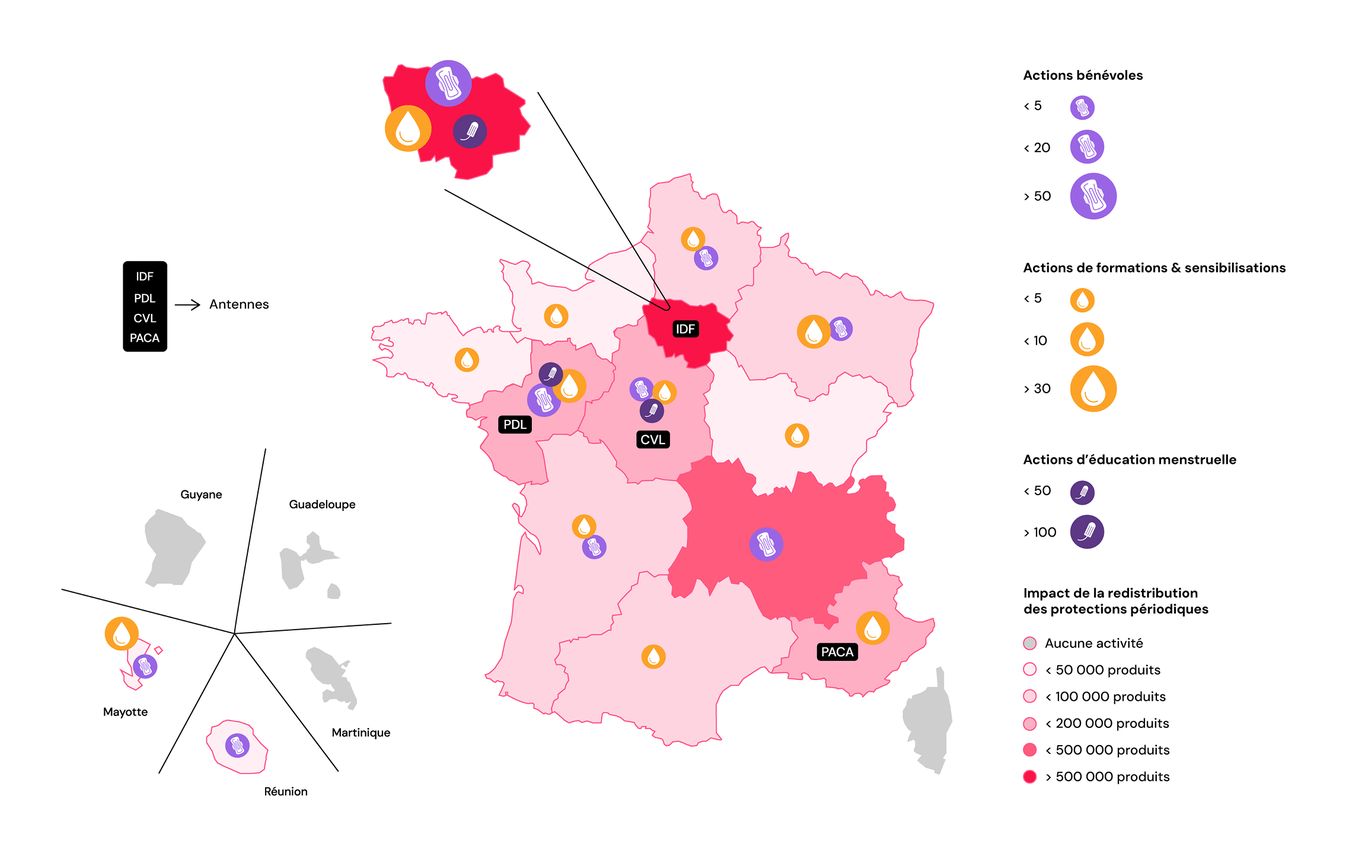
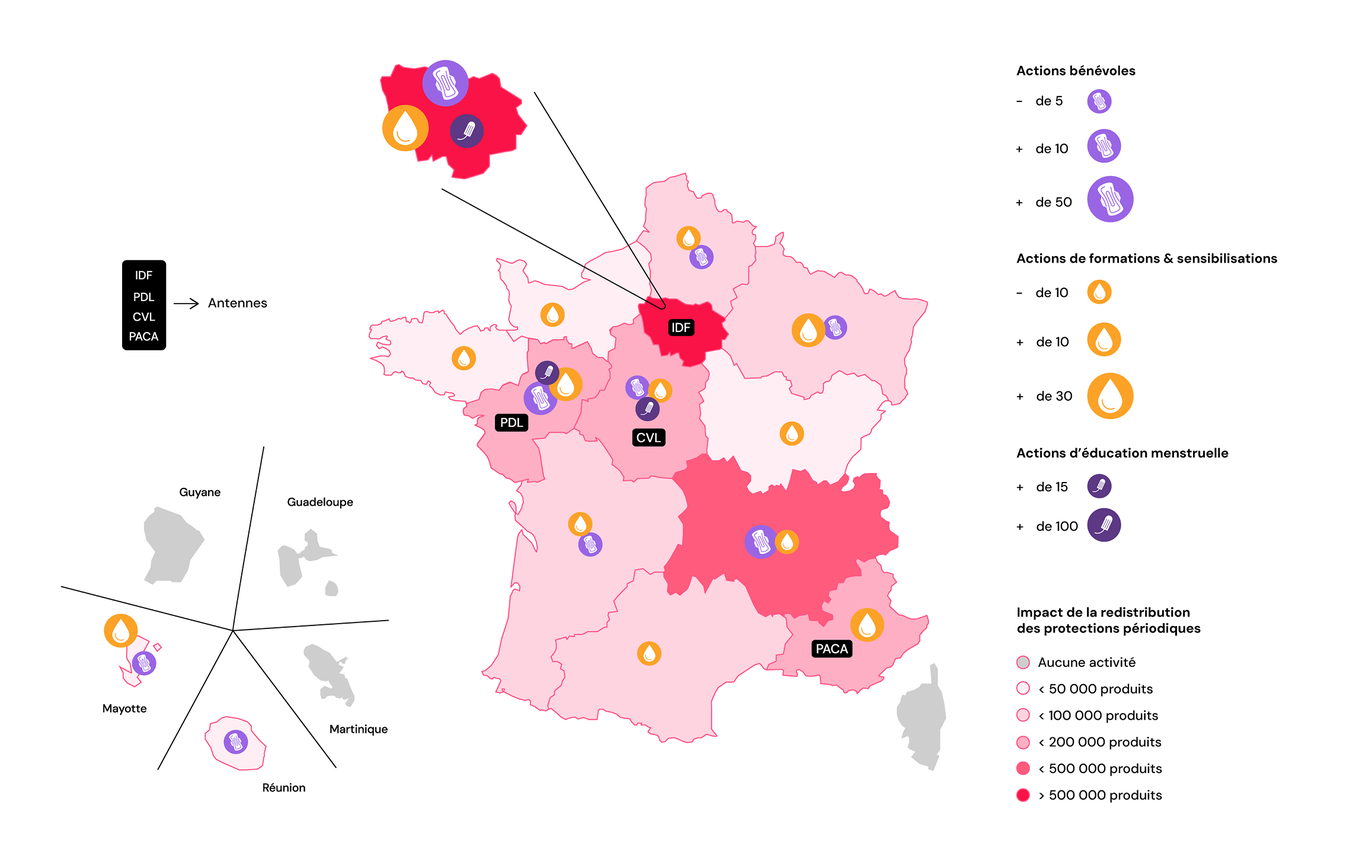
ra 2025 : update carte, chiffres & relations assos

diff --git a/site/layouts/asso/rapport_2024.html b/site/layouts/asso/rapport_2024.html
@@ -119,7 +119,7 @@
                     {{ range .Params.key_numbers.benevoles_numbers }}
                         <div class="w-full md:w-1/2 py-2">
                             <div class="flex flex-row justify-between rounded-xl bg-reorange px-6 md:px-12 py-4 md:py-8 h-full md:mr-2 md:ml-2">
-                                <div class="w-1/5 flex flex-col justify-center">
+                                <div class="w-1/5 h-12 flex flex-col justify-center">
                                     <img class="w-16" src="{{ .img }}" alt="" aria-hidden="true"/>
                                 </div>
                                 <div class="w-4/5 flex flex-col justify-center ml-4">
@@ -133,9 +133,9 @@
                 <h3 class="text-repink text-center text-md md:text-xl mt-12 mb-8 font-unbounded font-bold">{{ .Params.key_numbers.education_title }}</h3>
                 <div class="flex flex-row flex-wrap text-white justify-center"> 
                     {{ range .Params.key_numbers.education_numbers }}
-                        <div class="w-full md:w-1/2 py-2">
+                        <div class="w-full md:w-1/3 py-2">
                             <div class="flex flex-row justify-between rounded-xl bg-repink px-6 md:px-12 py-4 md:py-8 h-full md:mr-2 md:ml-2">
-                                <div class="w-1/5 flex flex-col justify-center">
+                                <div class="w-1/5 h-12 flex flex-col justify-center">
                                     <img class="w-16" src="{{ .img }}" alt="" aria-hidden="true"/>
                                 </div>
                                 <div class="w-4/5 flex flex-col justify-center ml-4">
@@ -151,7 +151,7 @@
                     {{ range .Params.key_numbers.formation_numbers }}
                         <div class="w-full md:w-1/2 py-2">
                             <div class="flex flex-row justify-between rounded-xl bg-remauve px-6 md:px-12 py-4 md:py-8 h-full md:mr-2 md:ml-2">
-                                <div class="w-1/5 flex flex-col justify-center">
+                                <div class="w-1/5 h-12 flex flex-col justify-center">
                                     <img class="w-16" src="{{ .img }}" alt="" aria-hidden="true"/>
                                 </div>
                                 <div class="w-4/5 flex flex-col justify-center ml-4">
@@ -167,8 +167,8 @@
                     {{ range .Params.key_numbers.public_numbers }}
                         <div class="w-full md:w-1/2 py-2">
                             <div class="flex flex-row justify-between rounded-xl bg-repurple px-6 md:px-12 py-4 md:py-8 h-full md:mr-2 md:ml-2">
-                                <div class="w-1/5 flex flex-col justify-center">
-                                    <img class="w-16" src="{{ .img }}" alt="" aria-hidden="true"/>
+                                <div class="w-16 h-12 flex flex-col justify-center">
+                                    <img src="{{ .img }}" alt="" aria-hidden="true"/>
                                 </div>
                                 <div class="w-4/5 flex flex-col justify-center ml-4">
                                     <div class="text-xl font-unbounded font-bold">{{ .number }}</div>
@@ -421,13 +421,9 @@
                 <p class="w-full md:w-3/4 mx-auto text-rered text-center">{{ .intro.text }}</p>
                 <img class="mt-8" src="/img/page-rapport-2024/banniere-page-4.png" alt="" aria-hidden="true"/>
                 <div class="w-11/12 md:w-5/6 mx-auto border-t-2 mt-14 border-repurple">
-                    <h4 class="mt-8 font-semibold text-xl">{{ .programme.title }}</h4>
-                    <p class="mt-4">{{ .programme.text | markdownify }}</p>
-                </div> 
-                <div class="w-11/12 md:w-5/6 mx-auto border-t-2 mt-14 border-repurple">
                     <h4 class="mt-8 font-semibold text-xl">{{ .impact.title }}</h4>
                     <p class="mt-4">{{ .impact.text | markdownify }}</p>
-                    <div class="flex flex-row flex-wrap">
+                    <div class="flex flex-row flex-wrap mt-4">
                         <div class="w-full md:w-1/2 md:pr-2 md:pl-2 mt-4">
                             <img src="/img/page-rapport-2024/impact-1.png" alt="" aria-hidden="true"/>
                         </div>
@@ -443,12 +439,8 @@
                     </div>                      
                 </div>    
                 <div class="w-11/12 md:w-5/6 mx-auto border-t-2 mt-14 border-repurple">
-                    <h4 class="mt-8 font-semibold text-xl">{{ .sensibilisation.title }}</h4>
-                    <p class="mt-4">{{ .sensibilisation.text | markdownify }}</p>
-                </div>
-                <div class="w-11/12 md:w-5/6 mx-auto border-t-2 mt-14 border-repurple">
                     <h4 class="mt-8 font-semibold text-xl">{{ .enquete.title }}</h4>
-                    <p class="mt-4">{{ .enquete.first_text | markdownify }}</p>
+                    <p class="mt-4">{{ .enquete.text | markdownify }}</p>
                     <div class="w-full mt-8">
                         <img src="/img/page-rapport-2024/enquete.png" alt="" aria-hidden="true"/>
                     </div>
@@ -464,13 +456,16 @@
                             </div>
                         {{ end }}
                     </div>
-                    <p class="mt-4">{{ .enquete.second_text | markdownify }}</p>
                     <div class="mt-8">
-                        <a class="font-semibold bg-rered text-white rounded-full px-8 py-2 hover:bg-reorange" href="">
+                        <a class="font-semibold bg-rered text-white rounded-full px-8 py-2 hover:bg-reorange" href="" target="_blank">
                             Lire l'enquête
                         </a>
                     </div>                    
                 </div>   
+                <div class="w-11/12 md:w-5/6 mx-auto border-t-2 mt-14 border-repurple">
+                    <h4 class="mt-8 font-semibold text-xl">{{ .sensibilisation.title }}</h4>
+                    <p class="mt-4">{{ .sensibilisation.text | markdownify }}</p>
+                </div>
                 <div class="w-11/12 md:w-5/6 mx-auto border-t-2 mt-14 border-repurple">
                     <h4 class="mt-8 font-semibold text-xl">{{ .plateforme.title }}</h4>
                     <p class="mt-4">{{ .plateforme.text | markdownify }}</p>
@@ -479,7 +474,7 @@
                     </div>
                     <div class="flex flex-row flex-wrap text-white justify-center mt-8"> 
                         {{ range .plateforme.facts }}
-                            <div class="py-4 md:px-8 w-full md:w-1/3">
+                            <div class="py-4 md:px-8 w-full md:w-1/2">
                                 <div class="flex flex-col items-center">
                                     <div class="mb-4 text-white bg-reorange rounded-full h-8 w-8 font-semibold flex items-center justify-center">{{ .number }}</div>
                                     <img src="/img/page-rapport-2024/down-orange-arrow.svg" alt="">
@@ -490,9 +485,21 @@
                     </div>
                 </div>   
                 <div class="w-11/12 md:w-5/6 mx-auto border-t-2 mt-14 border-repurple">
+                    <h4 class="mt-8 font-semibold text-xl">{{ .collectes.title }}</h4>
+                    <p class="mt-4">{{ .collectes.text | markdownify }}</p>
+                    <div class="flex flex-row flex-wrap mt-4">
+                        <div class="w-full md:w-1/2 md:pr-4 mt-4">
+                            <img src="/img/page-rapport-2024/collecte-1.png" alt="" aria-hidden="true"/>
+                        </div>
+                        <div class="w-full md:w-1/2 md:pl-4 mt-4">
+                            <img src="/img/page-rapport-2024/collecte-2.png" alt="" aria-hidden="true"/>
+                        </div>
+                    </div> 
+                </div> 
+                <div class="w-11/12 md:w-5/6 mx-auto border-t-2 mt-14 border-repurple">
                     <h4 class="mt-8 font-semibold text-xl">{{ .deret.title }}</h4>
                     <p class="mt-4">{{ .deret.text | markdownify }}</p>
-                    <div class="flex flex-row flex-wrap">
+                    <div class="flex flex-row flex-wrap mt-4">
                         <div class="w-full md:w-1/2 md:pr-4 mt-4">
                             <img src="/img/page-rapport-2024/deret-1.png" alt="" aria-hidden="true"/>
                         </div>
@@ -536,7 +543,7 @@
                         <img src="/img/page-rapport-2024/chiffres-foot.png" alt="Un tiers des joueuses sons stressées quand elles vont à l'entraînement pendant leurs règles; 1 joueuse sur 3 a ressenti de l'appréhension lors de ses premières règles; Plus de la moitié des joeuses se sentent ralenties dans leur progression sportive à cause de leurs règles; Près de 40% des joueuses ont dû manquer un match à cause de leurs règles; Près d'1 joueuse sur 2 ne se sent pas à l'aise de parler de ses règles dans son club; 51% des répondantes trouvent utile d'être sensibilisées à la question du lien entre sport et règles; Près de 80% des répondantes pensent qu'il n'existe pas ou très peu d'informations sur le lien entre règles et sport; 7 joueuses sur 10 se sentent moins perofrmantes pendant un match si elles sont leurs règles; Près de 40% des répondantes estiment que le sujet des règles est tabou dans le sport."/>
                     </div>                    
                     <div class="mt-8">
-                        <a class="font-semibold bg-rered text-white rounded-full px-8 py-2 hover:bg-reorange" href="">
+                        <a class="font-semibold bg-rered text-white rounded-full px-8 py-2 hover:bg-reorange" href="https://doccollectes.blob.core.windows.net/statics/enquete_regles_et_sport.pdf" target="_blank">
                             Lire l'enquête
                         </a>
                     </div>  
@@ -572,7 +579,7 @@
                                     <div class="text-lg md:text-xl font-bold text-rered text-center px-8">{{ .text }}</div>  
                                     {{ with .link }}
                                         <div class="mt-4">
-                                            <a class="font-semibold bg-rered text-white rounded-full px-8 py-2 hover:bg-reorange" href="{{ .url }}">
+                                            <a class="font-semibold bg-rered text-white rounded-full px-8 py-2 hover:bg-reorange" href="{{ .url }}" target="_blank">
                                                 {{ .text }}
                                             </a>
                                         </div> 
@@ -589,7 +596,7 @@
                             <img src="/img/page-rapport-2024/presse.png" alt="Des extraits d'articles de presse dont france info, la dépêche et le mouv." aria-hidden="true">
                         </div>  
                         <div class="mt-8">
-                            <a class="font-semibold bg-rered text-white rounded-full px-8 py-2 hover:bg-reorange" href="">
+                            <a class="font-semibold bg-rered text-white rounded-full px-8 py-2 hover:bg-reorange" href="" target="_blank">
                                 {{ .revue.link_text }}
                             </a>
                         </div>                          

diff --git a/site/content/asso/rapport_2024.md b/site/content/asso/rapport_2024.md
@@ -31,15 +31,11 @@ tabs:
 intro:
   title: "Bienvenue sur notre rapport d'activité digital !"
   text: "En 2024, Règles Élémentaires a poursuivi son engagement avec une intensité et une portée accrues. Grâce à la mobilisation sans précédent de nos bénévoles, partenaires et équipes salariées, nous avons collecté et redistribué plus de 5 millions de protections périodiques, formé plus d'un millier de professionnel·les et sensibilisé des milliers de jeunes et d’adultes à la santé menstruelle. Cette année marque également un tournant stratégique avec l’essor de nos antennes régionales, permettant un ancrage territorial renforcé et des actions adaptées aux réalités locales. En innovant dans nos approches, en consolidant nos actions et en étendant notre réseau, nous avons fait de 2024 une année décisive pour la lutte contre la précarité menstruelle et la sensibilisation à grande échelle. Ce rapport témoigne de ces avancées, des défis relevés et des perspectives qui s’ouvrent à nous pour les années à venir.<br/>Bonne lecture !"
-edito: "Depuis sa création, Règles Élémentaires s'engage résolument pour l'éradication de la précarité menstruelle. Notre voix a joué un rôle crucial dans la mise en lumière de cette réalité préoccupante, souvent occultée et profondément injuste. Le rapport d’activité de l’association révèle la concrétisation d’une multitude de projets portés en 2023, tous ancrés dans l'action concrète.
+edito: "Être présidente de Règles Élémentaires, c’est porter une conviction profonde : celle que les règles ne devraient jamais être un sujet de honte, d'ignorance ou de précarité. 
 <br/><br/>
-Aider & collecter,<br/>
-rencontrer & sensibiliser,<br/>
-défendre & faire valoir.
+Cette année encore, nous avons grandi, à toutes les échelles : sur le terrain avec l’ouverture d’antennes locales portées par des personnes engagées ; à l’échelle européenne en dénonçant des réalités inacceptables — à l’heure où j’écris ces lignes, qui sait ce qu’il y a vraiment dans une protection périodique ? Comment ne pas voir là une négligence délibérée à la santé publique ? Face à ces constats, Règles Élémentaires éclaire, informe, sensibilise. Avec la certification Qualiopi obtenue pour notre service de formation, nous consolidons notre rôle dans un monde où la parole a parfois du mal à se frayer un chemin. 
 <br/><br/>
-J’exprime ma reconnaissance envers chaque personne contribuant à faire de notre vision une réalité, une réalité où la précarité menstruelle n'a plus sa place. Si Règles Élémentaires trace un avenir où toutes les personnes touchées par la précarité menstruelle, ou confrontées au tabou des règles, pourront vivre sans entraves ni stigmates, votre soutien est la clé de cette transformation sociale dans laquelle l’association s’investit de manière déterminée.
-<br/><br/>
-Merci aux équipes, aux administrateurs·rices, aux bénévoles partout sur le territoire, ainsi qu’aux partenaires publics et privés, aux associations, aux donateurs·rices de faire partie de cette démarche collective qui vise à créer un monde plus équitable pour tous·tes."
+Merci à l’équipe de l’association, aux bénévoles et aux soutiens fidèles dont ses administrateurs•rices qui font vivre cette ambition quotidienne."
 edito_author: "Nadège Moreau<br/>Présidente de Règles Élémentaires"
 events_title: "2024 en moments clés"
 key_events:
@@ -117,19 +113,19 @@ key_numbers:
   title: Les chiffres clés
   precarite_title: "Lutte contre la précarité menstruelle"
   precarite_numbers:    
-    - number: "5 144 736"
+    - number: "5 110 451"
       text: "protections collectées"
       img: "/img/page-rapport-2024/paquet-serviettes.svg"
-    - number: "29 484"
+    - number: "12 671"
       text: "protections réutilisables collectées"
       img: "/img/page-rapport-2024/cup.svg"
-    - number: "5 102 094"
+    - number: "5 097 780"
       text: "protections jetables collectées"
       img: "/img/page-rapport-2024/serviette-emballee.svg"
-    - number: "913 500"
-      text: "mois de règles couverts"
-      img: "/img/page-rapport-2024/calendrier.svg"
-    - number: "408 partenaires"
+    - number: "457 625"
+      text: "personnes bénéficiaires"
+      img: "/img/page-rapport-2024/3-personnes.svg"
+    - number: "404 partenaires"
       text: "associatifs ayant bénéficié de protections périodiques"
       img: "/img/page-rapport-2024/main-coeur.svg"
   benevoles_title: "Nos bénévoles"
@@ -142,34 +138,43 @@ key_numbers:
       img: "/img/page-rapport-2024/hands-heart.svg"
   education_title: "Education menstruelle"
   education_numbers:
-    - number: "215"
+    - number: "267"
       text: "actions de sensibilisation jeunes"
       img: "/img/page-rapport-2024/tableau.svg"
-    - number: "XXX"
+    - number: "4951"
       text: "jeunes sensibilisé·es lors de nos ateliers scolaire"
       img: "/img/page-rapport-2024/sac-a-dos.svg"
-    - number: "XXX"
-      text: "participant·es à nos sensibilisations adultes"
-      img: "/img/page-rapport-2024/3-personnes.svg"
-    - number: "XXX"
-      text: "professionnel·les accompagné·es lors de sensibilisations"
-      img: "/img/page-rapport-2024/professionnel.svg"
+    - number: "+ de 10 000"
+      text: "visites sur Parlons Règles"
+      img: "/img/page-rapport-2024/ordinateur.svg"
   formation_title: "Formations"
   formation_numbers:
-    - number: "49"
-      text: "formations menées"
+    - number: "89"
+      text: "actions menées auprès des professionnel·les (relais médico-sociaux, éducatifs)"
       img: "/img/page-rapport-2024/tableau.svg"
-    - number: "79"
-      text: "sensibilisations adultes"
+    - number: "1030"
+      text: "professionnel·les  formés ou sensibilisés"
+      img: "/img/page-rapport-2024/professionnel.svg"
+    - number: "26"
+      text: "sensibilisations adultes bénéficiaires"
+      img: "/img/page-rapport-2024/tableau.svg"
+    - number: "232"
+      text: "bénéficiaires sensibilisées"
       img: "/img/page-rapport-2024/bulle-dialogue.svg"
+    - number: "6"
+      text: "actions menées auprès d’employeurs"
+      img: "/img/page-rapport-2024/tableau.svg"
+    - number: "115"
+      text: "salarié·es / agent·es sensibilisés"
+      img: "/img/page-rapport-2024/professionnel.svg"
   public_title: "Grand public"
   public_numbers:
     - number: "45"
       text: "participations lors d’événements"
       img: "/img/page-rapport-2024/evenement.svg"
-    - number: "+ de 10 000"
-      text: "visites sur Parlons Règles"
-      img: "/img/page-rapport-2024/ordinateur.svg"
+    - number: "+ de 220 000 personnes"
+      text: "sensibilisées lors de nos évènements"
+      img: "/img/page-rapport-2024/personnage-check.svg"
     - number: "64 268"
       text: "abonné·es sur nos réseaux sociaux"
       img: "/img/page-rapport-2024/abonnes.svg"
@@ -426,7 +431,7 @@ ancrage:
       img: "/img/page-rapport-2024/zoom-paca.png"
     - title: "Antenne Île-de-France"
       text: "Si Règles Élémentaires, depuis sa création, a toujours eu la grande majorité de ses actions en Ile-de-France, l’antenne régionale a été officiellement créée en septembre dernier seulement. En effet, les actions en Ile-de-France en 2024 ce sont : 
-      <br/>
+      <br/><br/>
       <ul>
       <li>599 partenaires associatifs et 955 000 produits distribués dont 10 000 produits lavables ainsi que 294 professionnel·les formé·es à la santé menstruelle</li>
       <li>Des actions de sensibilisation à destination de  2 700 élèves de 8 à 18 ans et 1 170 adultes</li>
@@ -471,8 +476,8 @@ ancrage:
       <br/>
       Un engagement collectif pour 2025 : 
       Après cette première année d'activité, nous voulons renforcer l'accompagnement des actions sur le terrain, en élargissant notre réseau de partenaires, en proposant davantage de formations et en développant l'éducation menstruelle auprès des jeunes. Nous souhaitons également faire de l’antenne Pays de la Loire une véritable structure ressource pour le territoire. Cela signifie accompagner les porteurs·euses de projets engagé·es contre la précarité menstruelle, partager notre expertise avec les acteurs·rices locaux et aider nos partenaires à monter en compétence. En développant des outils et des formations adaptées, nous voulons permettre à chacun·e d’agir à son échelle et d’inscrire durablement le sujet des règles dans les dynamiques locales."
-      quote: "“Equitis Romani autem esse filium criminis loco poni ab accusatoribus neque his iudicantibus oportuit neque defendentibus nobis. Nam quod de pietate dixistis, est quidem ista nostra existimatio, sed iudicium certe parentis; quid nos opinemur, audietis ex iuratis; quid parentes sentiant, lacrimae matris incredibilisque maeror, squalor patris et haec praesens maestitia, quam cernitis, luctusque declarat. Quare talis improborum consensio non modo excusatione amicitiae tegenda non est sed potius supplicio omni vindicanda est, ut ne quis concessum putet amicum vel bellum patriae inferentem.”"
-      quote_author: "Lorem Ipsum"
+      quote: "“En 2024, un collectif regroupant une dizaine de structures engagées sur les questions d’Éducation à la Vie Affective, Relationnelle et Sexuelle (EVARS) en Loire-Atlantique s’est créé. Ce travail en réseau nous permet d’échanger nos expériences, de partager nos expertises et de nous enrichir mutuellement. Ensemble, nous souhaitons développer des outils adaptés aux besoins repérés, réfléchir à des pratiques plus inclusives et favoriser le travail partenarial. Cette dynamique de réseau nous permet d’innover, de nous soutenir face aux défis, de renforcer notre légitimité dans nos pratiques et auprès des publics que nous accompagnons. Dans un contexte dans lequel ces thématiques sont parfois mises en difficulté, le collectif nous donne aussi du poids pour poursuivre nos actions.”"
+      quote_author: "Ophélia pour iKi iKi & François pour disQutons"
       img: "/img/page-rapport-2024/zoom-pdl.png"
   benevoles:
     title: "Le rôle central des bénévoles pour déployer nos actions"
@@ -571,18 +576,15 @@ partenaires:
   intro:
     title: "L’augmentation des besoins & nos relations avec les association partenaires"
     text: "En 2024, Règles Élémentaires a renforcé son engagement auprès des structures médico-sociales pour lutter contre la précarité menstruelle et améliorer la santé menstruelle des bénéficiaires."
-  programme:
-    title: "Un programme national pour améliorer la santé menstruelle"
-    text: "Règles Élémentaires a été soutenu par la Direction Générale de la Cohésion Sociale (DGCS) pour mettre en place un programme national visant l’amélioration de la santé menstruelle des personnes accueillies dans une centaine de structures médico-sociales. Ce programme repose sur la sensibilisation et la formation des équipes ainsi que la distribution de protections périodiques jetables et réutilisables pour les bénéficiaires."
   impact:
     title: "Un impact grandissant et un renforcement de l’accompagnement des partenaires"
-    text: "Depuis 2015, le nombre d’associations bénéficiaires a considérablement augmenté, passant de 150 à plus de 1 400. En 2024, cette augmentation a été particulièrement marquée avec une hausse de 80 % par rapport à 2023, soit 408 nouveaux partenaires. De plus, le nombre de demandes de produits a connu une augmentation de 45 % par rapport à l’année précédente. En réponse à cette demande croissante, nous avons réalisé 604 redistributions de dons à 384 associations et structures médico-sociales. Face à cette augmentation, 2024 a marqué un tournant dans notre manière d’accompagner les associations partenaires. Grâce au développement de notre organisme de formation et à un suivi renforcé, nous avons pu transférer nos compétences aux structures en les formant, en les dotant d’outils concrets et en animant une communauté de professionnel·les engagés dans la lutte contre la précarité menstruelle."
-  sensibilisation:
-    title: "De la sensibilisation des publics à la formation des professionnel·les"
-    text: "Cette année, 19 formations ont été dispensées à plus de 250 personnes dans plusieurs régions (Auvergne Rhône-Alpes, Occitanie, Grand-Est, Pays de la Loire, Provence-Alpes-Côte d’Azur, Normandie, Champagne-Ardenne et Mayotte). Chaque participant·e a accès à un “Carnet de stagiaire” et à un espace en ligne contenant des ressources pratiques.Par ailleurs, 36 sessions de sensibilisation ont été menées auprès de professionnel·les et bénévoles, dont 6 spécifiquement dédiées aux bénéficiaires sous forme d’ateliers ou de cercles de parole. En partenariat avec la Croix-Rouge française, nous avons également formé la Chargée d'animation de Lutte contre la précarité menstruelle, sur une période de 6 mois en 4 étapes successives. En 2024, plus de 12 700 produits réutilisables ont été redistribués aux structures formées et sensibilisées. Nous conseillons aux structures de réaliser un diagnostic des besoins des bénéficiaires afin de leur fournir des kits adaptés (5 culottes menstruelles par personne)."
+    text: "Depuis 2015, le nombre d’associations bénéficiaires a considérablement augmenté, passant de 150 à plus de 1 400. En 2024, cette augmentation a été particulièrement marquée avec une hausse de 80 % par rapport à 2023, soit 408 nouveaux partenaires. De plus, le nombre de demandes de produits a connu une augmentation de 45 % par rapport à l’année précédente. En réponse à cette demande croissante, nous avons réalisé 604 redistributions de dons à 384 associations et structures médico-sociales.<br/>
+    Face à cette augmentation, 2024 a marqué un tournant dans notre manière d’accompagner les associations partenaires. Grâce au développement de notre organisme de formation et à un suivi renforcé, nous avons pu transférer nos compétences aux structures en les formant, en les dotant d’outils concrets et en animant une communauté de professionnel·les engagés dans la lutte contre la précarité menstruelle."
   enquete:
     title: "Une enquête pour mieux répondre aux besoins"
-    first_text: "En février 2024, une grande enquête a été lancée auprès de nos 1 094 partenaires afin de mieux cerner leurs actions, leurs besoins et les outils qu’ils attendent de Règles Élémentaires. 198 structures ont répondu, et 16 entretiens qualitatifs ont été menés."
+    text: "En février 2024, une grande enquête a été lancée auprès de nos 1 094 partenaires afin de mieux cerner leurs actions, leurs besoins et les outils qu’ils attendent de Règles Élémentaires. 198 structures ont répondu, et 16 entretiens qualitatifs ont été menés. L’enquête a révélé que 94 % des structures ont des bénéficiaires en demande de protections périodiques, mais que seules 64 % peuvent en mettre à disposition, et seulement 32 % parviennent à couvrir l’ensemble des besoins.
+    <br/><br/>
+    Les résultats ont également mis en avant un besoin fort d’outils spécifiques : boîtes de mise à disposition, affiches éducatives et livrets pédagogiques. Nous prévoyons de renouveler cette enquête chaque année pour adapter au mieux notre soutien."
     numbers:
       - number: "94 %"
         text: "des structures ont des bénéficiaires en demande de protections périodiques"
@@ -590,7 +592,17 @@ partenaires:
         text: "des structures peuvent mettre des produits périodiques à disposition"
       - number: "32 %"
         text: "des structures peuvent mettre des produits périodiques à disposition"
-    second_text: "Les résultats ont également mis en avant un besoin fort d’outils spécifiques : boîtes de mise à disposition, affiches éducatives et livrets pédagogiques. Nous prévoyons de renouveler cette enquête chaque année pour adapter au mieux notre soutien."
+  sensibilisation:
+    title: "La formation et la sensibilisation, des leviers essentiels"
+    text: "Pour renforcer et pérenniser l’impact de nos actions nous avons opéré une évolution dans nos modalités d’interventions auprès des nos structures de terrain partenaires en 2024.
+    <br/><br/>
+    Fortes de 3 années d’expérience au contact des publics bénéficiaires, nous avons développé des contenus de sensibilisation puis de formation à destination des personnels encadrants au contact au quotidien et dans la durée avec les personnes bénéficiaires. 
+    <br/><br/>
+    L’objectif : intégrer au cœur des pratiques des établissements les enjeux de la lutte contre la précarité menstruelle et de santé menstruelle en formant et outillant les personnes qui y travaillent.
+    <br/><br/>
+    En 2024, 19 formations ont été dispensées à plus de 250 personnes dans plusieurs régions (Auvergne Rhône-Alpes, Occitanie, Grand-Est, Pays de la Loire, Provence-Alpes-Côte d’Azur, Normandie, Champagne-Ardenne et Mayotte) en plus des 30 formations dispensées aux partenaires de terrain en île-de-France.. Chaque participant·e a accès à un “Carnet de stagiaire” et à un espace en ligne contenant des ressources pratiques suite aux formations.Par ailleurs, 36 sessions de sensibilisation ont été menées auprès de professionnel·les et bénévoles, dont 6 spécifiquement dédiées aux bénéficiaires sous forme d’ateliers ou de cercles de parole. En partenariat avec la Croix-Rouge française, nous avons également formé la Chargée d'animation de Lutte contre la précarité menstruelle, sur une période de 6 mois en 4 étapes successives.
+    <br/><br/>
+    En parallèle, 36 ateliers de sensibilisation ont été réalisés en direct auprès de publics que nous ciblons et ont bénéficié à 94 femmes en détention et 138 personnes hébergées par des établissements de la Croix-Rouge Française."
   plateforme:
     title: "Une plateforme partenaire optimisée"
     text: "Pour faciliter l’accès aux dons et formations, nous avons amélioré notre plateforme de partenariat :"
@@ -601,9 +613,25 @@ partenaires:
         text: "Création d’un onglet spécifique pour les demandes de formation"
       - number: "3"
         text: "Amélioration de l’outil de géolocalisation des partenaires"
+      - number: "4"
+        text: "Création d’un espace stagiaire contenant des dizaines de ressources clé en mains pour mettre en place des actions de lutte contre la PM"
+  collectes:
+    title: "Améliorer nos collectes pour mieux répondre aux besoins"
+    text: "Face aux besoins croissants, nous avons cherché à augmenter les quantités collectées. L’année 2024 a marqué un tournant en termes de collecte pour Règles Élémentaires : nous avons mené nos deux premières collectes nationales en autonomie dans des dizaines de supermarchés et hypermarchés en France.<br/>
+    A l’occasion de la Journée internationale pour les droits des femmes, nous avons mené la collecte “Règles Solidaires” en partenariat avec l’enseigne Carrefour France dans 21 magasins répartis sur toute la France métropolitaine, collectant 155 674 protections périodiques en l’espace de deux journées grâce à la mobilisation de plus de 360 bénévoles les 7 et 8 mars. 
+    <br/><br/>
+    En juin 2024, nous avons mené la collecte “Règles de Survie” en partenariat avec la Fondation Monoprix et avec le soutien de la Fondation des Femmes dans 43 magasins. Cette 8e édition de collecte en partenariat a réuni plus de 650 bénévoles sur 2 journées, les 21 et 22 juin en France métropolitaine et à Mayotte pour collecter un total de 322 182 protections périodiques. 
+    <br/><br/>
+    En décembre 2024, l’association a testé un nouveau concept : une collecte nationale organisée sur une même journée, le 7 décembre, par des dizaines de personnes dans les grandes surfaces de leur choix. Cette collecte innovante nous a permis de collecter près de 59 000 produits.
+    <br/><br/>
+    Au total, ces produits ont bénéficié à plus de 100 associations et structures médico-sociales partout en France, elles ont permis de couvrir un mois de règles pour près de 28 000 personnes."
   deret:
-    title: "Un partenariat logistique renforcé avec Deret"
-    text: "Depuis 2020, notre partenariat avec le Groupe Deret nous permet de gérer efficacement la distribution des protections périodiques à grande échelle. En 2024, face à l’augmentation des formations et des dons de produits réutilisables, Deret a élargi son soutien en prenant en charge l’emballage et l’expédition de plus de 8 000 colis. Cette évolution a accéléré nos redistributions et optimisé notre logistique. Au total, en 2024, nous avons envoyé plus d’1,2 million de produits aux entrepôts Deret, dont près de 12 000 culottes menstruelles et 14 000 cups."
+    title: "Un partenariat logistique renforcé avec Deret pour mieux redistribuer"
+    text: "Depuis 2020, notre partenariat avec le Groupe Deret nous permet de gérer efficacement la distribution des protections périodiques à grande échelle. Le Groupe Deret reçoit, entrepose et expédie environ 1 million de serviettes jetables par an de la part de la marque Always. Ce don et le mécénat logistique du groupe Deret nous permettent de couvrir les besoins de près de 150 partenaires de terrain chaque année, et ce, aux quatre coins de la France.
+    <br/><br/>
+    En 2024, face à l’augmentation des formations et des dons de produits réutilisables, Deret a élargi son soutien en prenant en charge l’emballage et l’expédition de plus de 8 000 colis. Cette évolution a accéléré nos redistributions et optimisé notre logistique. Nous avons reçu des dons de protections réutilisables de la part de : Modibodi, Lola Health, Juva Santé et Les Petites Choses en 2024.
+    <br/><br/>
+    Au total, en 2024, nous avons envoyé plus d’1,2 million de produits aux entrepôts Deret, dont près de 12 000 culottes menstruelles et 14 000 cups."
 changer:
   intro:
     title: "Changer les mentalités sur les règles"
